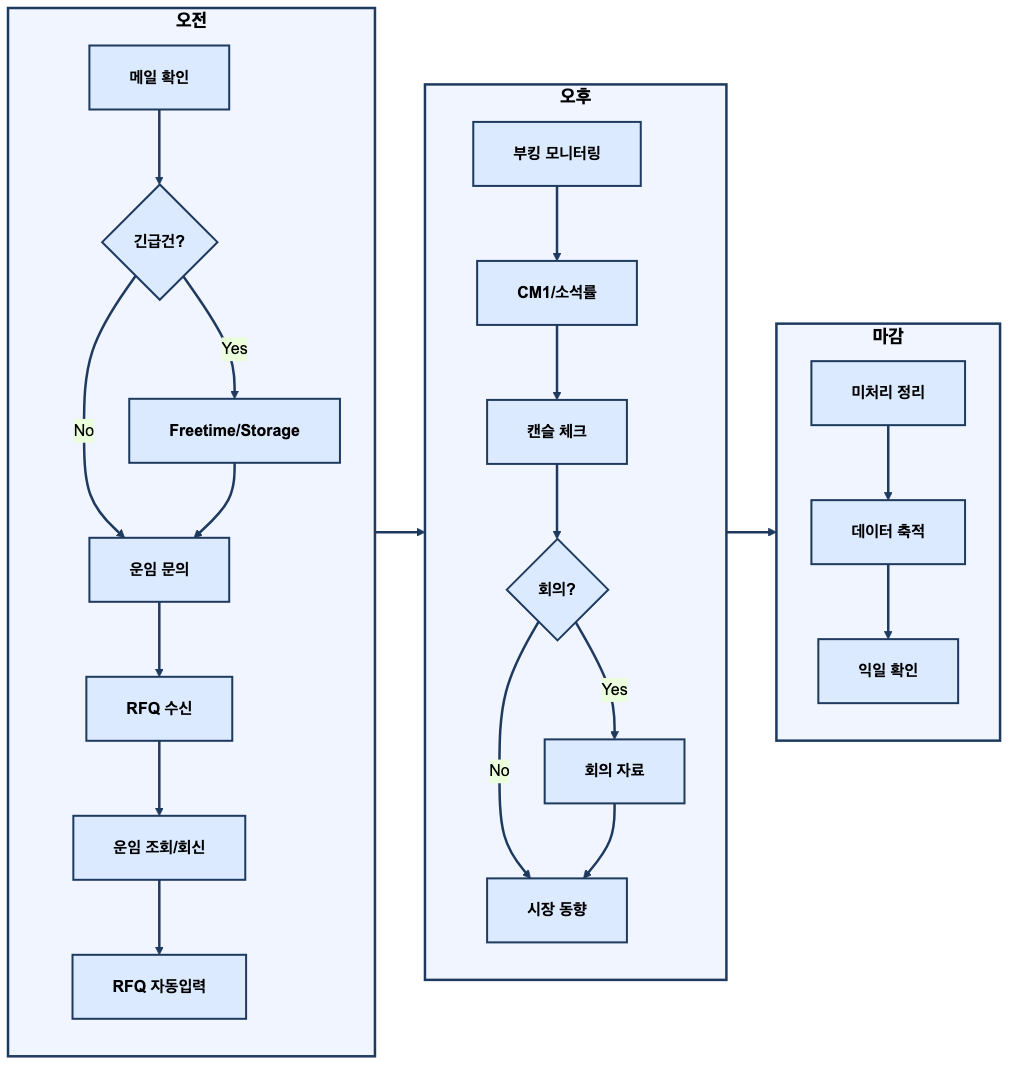
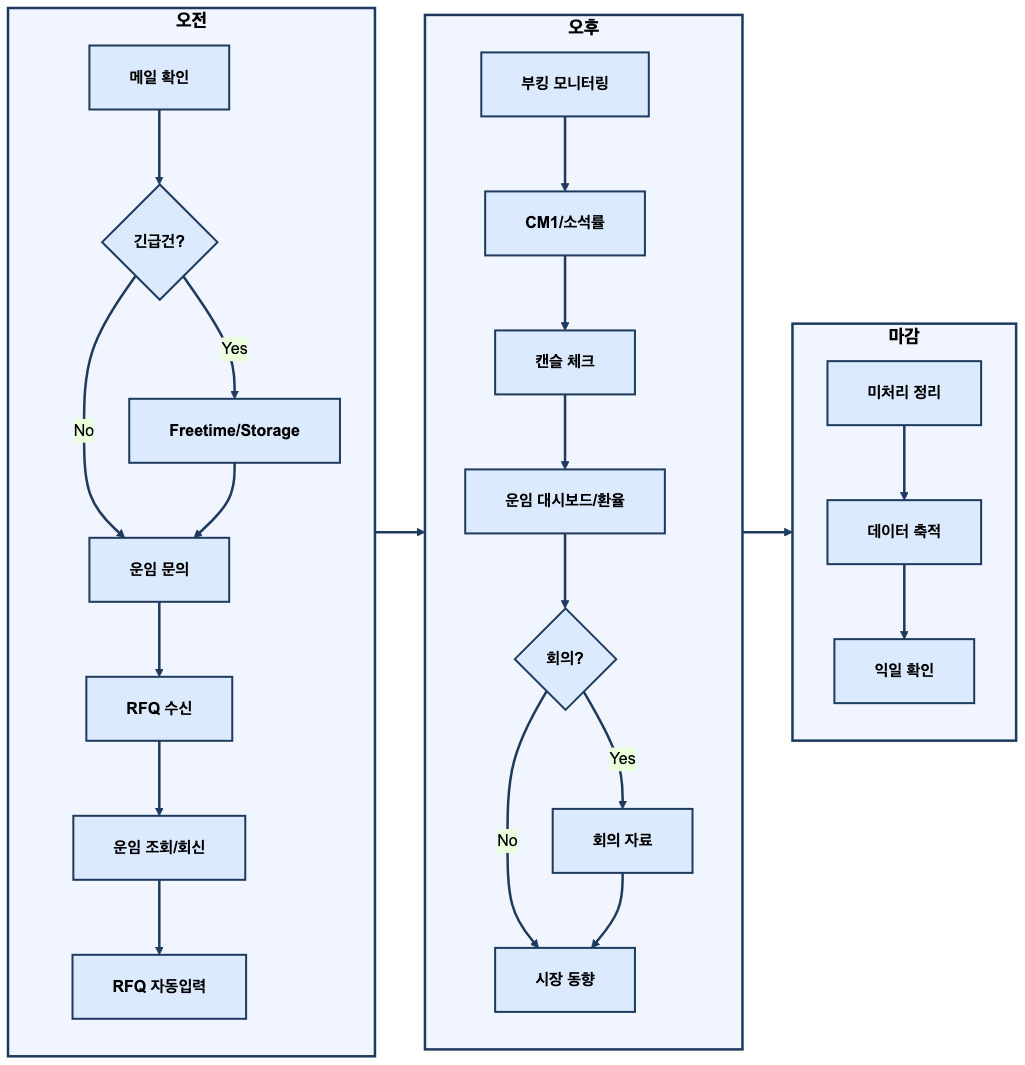
Sync all flowcharts: add missing tasks to all diagrams

diff --git a/index.html b/index.html
@@ -318,6 +318,9 @@ flowchart TD
         D3["주차별 CM1 추적"] --> D1["CM1/TEU Forecast"]
         D4["고객 수익성 분석"] --> D1
         D1 --> D2["목표 분배"]
+        D7["구간별 월간 목표 설정"]
+        D8["업체별 목표 작업"]
+        D9["고수익 고객 발굴"]
         D6["소석률 분석"]
         D5["VSL/VOY 기여도"]
     end
@@ -338,6 +341,8 @@ flowchart TD
         F1["주간 회의 대시보드"]
         F2["월간회의 자료"]
         F3["영업회의 자료"]
+        F4["인센티브 평가"]
+        F5["회의록/교육자료"]
     end
                 </div></div>
             </div>
@@ -347,6 +352,9 @@ flowchart TD
     subgraph G["G. 시스템 / AI 혁신"]
         G3["운임 DB 관리"] --> G1["자동 입찰 프로그램"]
         G3 --> G2["영업활동 관리 시스템"]
+        G4["SOP 표준화"]
+        G5["AI Agent 검토"]
+        G6["KMTC 항로 수집"]
     end
                 </div></div>
             </div>
@@ -358,6 +366,8 @@ flowchart TD
         H2["S/C 관리"]
         H3["AMS Filing"]
         H4["프로세스 연계 검토"]
+        H5["미국 S/C 관리"]
+        H6["운영 변경사항 공유"]
     end
                 </div></div>
             </div>
@@ -374,10 +384,15 @@ flowchart LR
     C1 --> C2["C. -3W Dashboard"]
     D3 --> D1["D. CM1/TEU Forecast"]
     D1 --> D2["D. 목표 분배"]
+    D2 --> D7["D. 구간별/업체별 목표"]
     C3["C. 캔슬 분석"] --> D4["D. 고객 수익성"]
+    D4 --> D9["D. 고수익 고객 발굴"]
     D3 --> F1["F. 주간 대시보드"]
     A6 --> F1
-    D1 --> F2["F. 월간회의 자료"]
+    D1 --> F2["F. 월간회의/임원회의"]
+    D1 --> F4["F. 인센티브 평가"]
+    G5["G. AI Agent"] --> D3
+    H5["H. 미국 S/C"] --> A3
         </div></div>
     </div>
 
@@ -399,7 +414,8 @@ flowchart LR
     subgraph PM["오후"]
         P1["부킹 현황 모니터링"] --> P2["CM1/소석률 확인"]
         P2 --> P3["캔슬 패턴 체크"]
-        P3 --> P4{"회의 예정?"}
+        P3 --> P7["운임 대시보드/환율 확인"]
+        P7 --> P4{"회의 예정?"}
         P4 -->|"Yes"| P5["회의 자료 업데이트"]
         P4 -->|"No"| P6["시장 동향 체크"]
         P5 --> P6
@@ -421,21 +437,24 @@ flowchart LR
 flowchart TD
     subgraph MON["월요일 - 집계"]
         M1["전주 실적 집계 BKG/Lifting/Cancel"]
-        M2["OBT Raw 자동수집 /obt-update"]
-        M3["Booking Snapshot /booking-snapshot"]
-        M1 --> M2 --> M3
+        M2["OBT Raw 자동수집 + Sheets 동기화"]
+        M3["데이터 품질 검증"]
+        M4["Booking Snapshot"]
+        M1 --> M2 --> M3 --> M4
     end
 
     subgraph TUE["화~수 - 분석"]
-        T1["주간 운임 변동 리포트 /weekly-rate-report"]
-        T2["-3W Booking Dashboard /3w-dashboard"]
+        T1["주간 운임 변동 리포트"]
+        T5["운임 파일 갱신 rate_db.json"]
+        T2["-3W Booking Dashboard"]
         T3["주차별 CM1 추적"]
+        T6["BKG vs Lifting / 소석률 분석"]
         T4["고캔슬 고객 모니터링"]
-        T1 --> T2 --> T3 --> T4
+        T1 --> T5 --> T2 --> T3 --> T6 --> T4
     end
 
     subgraph THU["목요일 - 보고"]
-        H1["E-Group 주간 대시보드 /weekly-review"]
+        H1["E-Group 주간 대시보드"]
         H2["주간 회의 참석/보고"]
         H3["액션 아이템 정리"]
         H1 --> H2 --> H3
@@ -443,7 +462,7 @@ flowchart TD
 
     subgraph FRI["금요일 - 마감"]
         F1["주간 KPI 마감"]
-        F2["운임 DB 갱신 확인 /rate-update"]
+        F2["운임 DB 갱신 + Tableau 최신화"]
         F3["차주 예상 이슈 정리"]
         F1 --> F2 --> F3
     end
@@ -458,31 +477,37 @@ flowchart TD
         <div class="chart-wrap"><div class="mermaid">
 flowchart TD
     subgraph EARLY["월초 (1~5일)"]
-        E1["전월 실적 마감 CM1/TEU 실적 vs 목표"]
+        E1["전월 실적 마감"]
+        E6["구간별 월간 목표 설정"]
+        E7["업체별 목표 작업"]
         E2["CM1 목표 분배 MY/ID/SG/US/MX"]
-        E3["CM1/TEU Forecast /sea-cm1-forecast"]
+        E3["CM1/TEU Forecast"]
         E4["운임 인상/변동 안내"]
-        E5["분기/반기 목표 설정 및 예산 수립"]
-        E1 --> E2 --> E3 --> E4
+        E5["분기/반기 목표 설정"]
+        E1 --> E6 --> E7 --> E2 --> E3 --> E4
         E1 --> E5
     end
 
     subgraph MID["월중 (6~20일)"]
-        M1["고객 수익성 분석 고수익/저수익 세분화"]
+        M1["고객 수익성 분석"]
+        M6["고수익 고객 발굴"]
         M2["VSL/VOY 기여도 분석"]
-        M3["RFQ/비딩 결과 분석"]
+        M3["RFQ/비딩 결과 및 이력 관리"]
         M4["시장 동향 리포트"]
-        M5["인센티브 평가 취합 (분기/반기)"]
-        M1 --> M2 --> M3 --> M4
+        M5["인센티브 평가 (분기/반기)"]
+        M7["Salesman-wise 실적 관리"]
+        M1 --> M6 --> M2 --> M3 --> M4
         M1 --> M5
+        M1 --> M7
     end
 
     subgraph LATE["월말 (21~말일)"]
         L1["월간회의 자료 작성"]
+        L5["SZP 임원회의자료 준비"]
         L2["익월 운임 전략 수립"]
         L3["BSA 대비 실적 리뷰"]
         L4["시스템 개선사항 정리"]
-        L1 --> L2 --> L3 --> L4
+        L1 --> L5 --> L2 --> L3 --> L4
     end
 
     EARLY --> MID --> LATE
